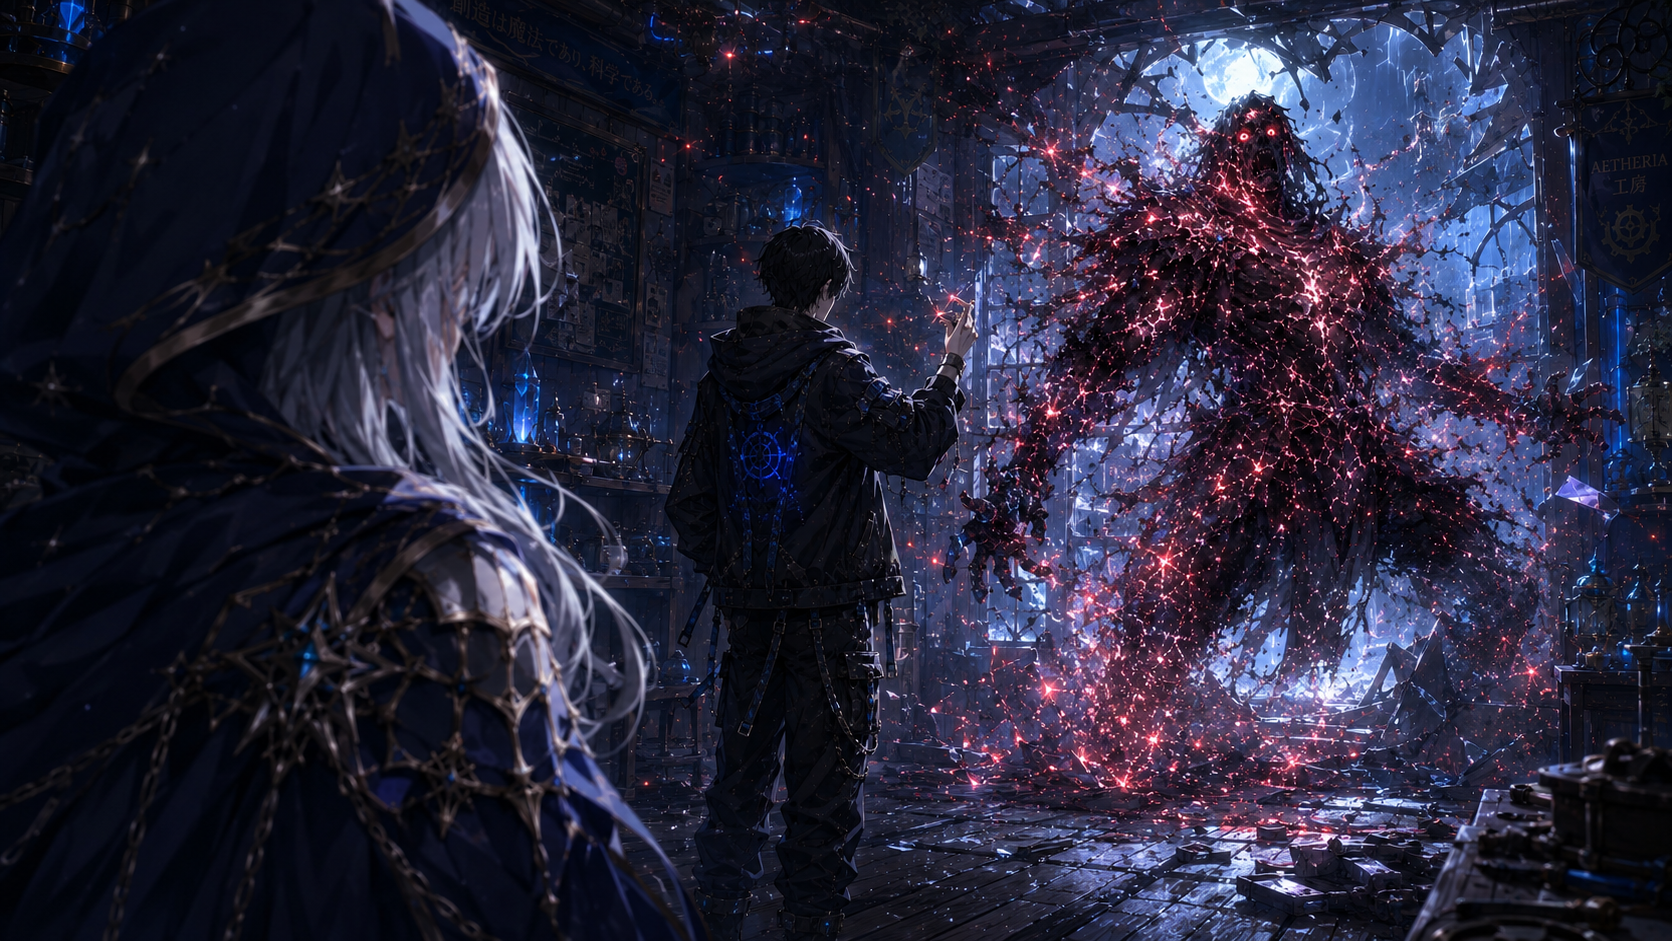
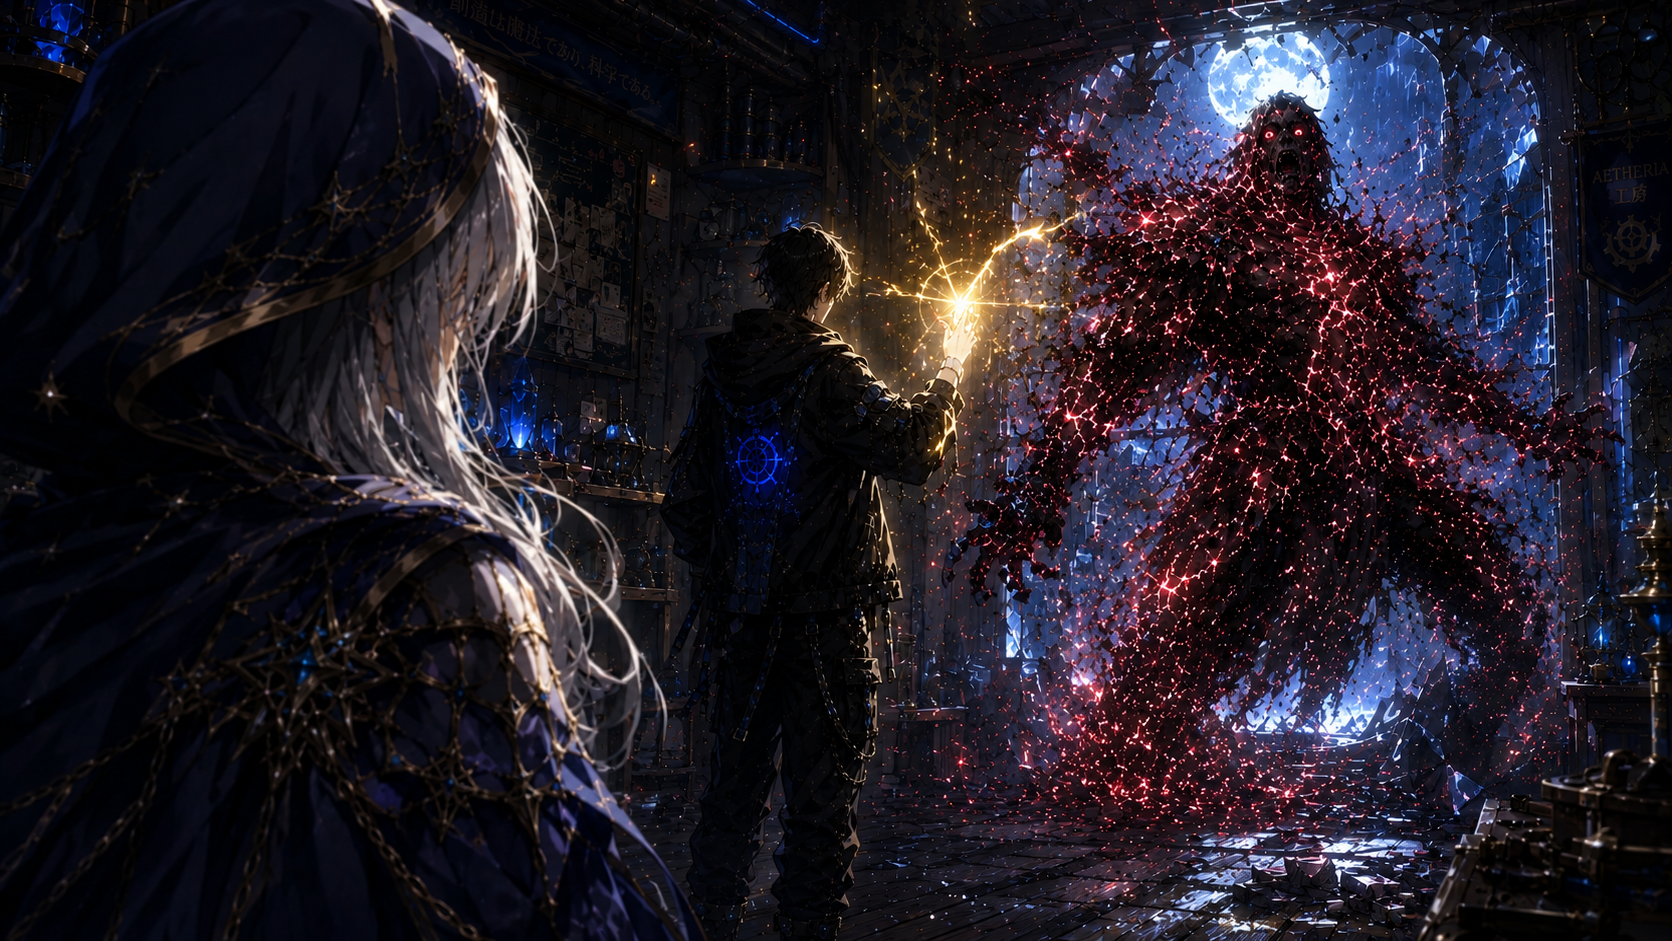
fix(assets): standardize new cg filenames, fix landing screen background path, and update scenes.ts

diff --git a/src/data/chapter-1/scenes.ts b/src/data/chapter-1/scenes.ts
@@ -167,16 +167,16 @@ export const scenes: Scene[] = [
       { id: 'CH1_S03_D001', speaker: 'system', expression: 'neutral', text: '*BLAAARRR...*', autoAdvance: true, autoAdvanceDelay: 1500, audioSrc: '/assets/audio/sfx/thunder.ogg' },
       { id: 'CH1_S03_D002', speaker: 'system', expression: 'neutral', text: '*TOK TOK TOK!* Terdengar ketukan keras dari luar, disusul suara bel bengkel yang berbunyi panik.', audioSrc: '/assets/audio/sfx/shop_bell.ogg' },
       { id: 'CH1_S03_D003', speaker: 'lysthea', expression: 'hidden', text: 'Permisi! Apakah ada mekanik di dalam?! Tolong buka pintunya!' },
-      { id: 'CH1_S03_D004', speaker: 'aeterna', expression: 'sigh', text: 'Aku membuka pintu kayu bengkelku. Seorang wanita berjubah basah kuyup berdiri menggigil di bawah hujan. Wajahnya terlihat sangat panik.', backgroundOverride: 'ch1/cg_ch1_s03_lys_arrive.jpg', characterOverrides: { aeterna: 'none', lysthea: 'none' } },
-      { id: 'CH1_S03_D005', speaker: 'lysthea', expression: 'panicked', text: 'Syukurlah... Maaf mengganggu selarut ini. Tapi bisakah kau melihat benda ini sebentar?!', backgroundOverride: 'ch1/cg_ch1_s03_lys_arrive.jpg', characterOverrides: { aeterna: 'none', lysthea: 'none' } },
+      { id: 'CH1_S03_D004', speaker: 'aeterna', expression: 'sigh', text: 'Aku membuka pintu kayu bengkelku. Seorang wanita berjubah basah kuyup berdiri menggigil di bawah hujan. Wajahnya terlihat sangat panik.', backgroundOverride: 'ch1/cg_ch1_s03_lys_arrive.png', characterOverrides: { aeterna: 'none', lysthea: 'none' } },
+      { id: 'CH1_S03_D005', speaker: 'lysthea', expression: 'panicked', text: 'Syukurlah... Maaf mengganggu selarut ini. Tapi bisakah kau melihat benda ini sebentar?!', backgroundOverride: 'ch1/cg_ch1_s03_lys_arrive.png', characterOverrides: { aeterna: 'none', lysthea: 'none' } },
       { id: 'CH1_S03_D006', speaker: 'aeterna', expression: 'neutral', text: 'Dia menyodorkan sebuah bola kristal logam ke atas meja. Intinya retak dan memancarkan kilatan energi biru yang sangat liar.', backgroundOverride: 'ch1/cg_core_slam.png', characterOverrides: { aeterna: 'none', lysthea: 'none' } },
       { id: 'CH1_S03_D007', speaker: 'lysthea', expression: 'panicked', text: 'Ini kristal core dari Defense Server distrik ketujuh. Pelindung distrik ini akan runtuh kalau sistemnya gagal me-reboot!', backgroundOverride: 'ch1/cg_core_slam.png', characterOverrides: { aeterna: 'none', lysthea: 'none' } },
       { id: 'CH1_S03_D008', speaker: 'aeterna', expression: 'neutral', text: 'Aku mengambil kristal itu. Energinya bocor karena ada beberapa baris "Rune" yang mengalami konflik logika. Layaknya sebuah memory leak.' },
       { id: 'CH1_S03_D009', speaker: 'aeterna', expression: 'neutral', text: 'Hanya butuh sinkronisasi ulang. Aku menyentuh titik pusat sirkuitnya, mengeksekusi override command di kepalaku untuk menutup celah error tersebut.', audioSrc: '/assets/audio/sfx/magic_repair.ogg', backgroundOverride: 'ch1/cg_casual_repair.png', characterOverrides: { aeterna: 'none', lysthea: 'none' } },
       { id: 'CH1_S03_D010', speaker: 'aeterna', expression: 'neutral', text: 'Dalam beberapa detik, cahaya liar itu padam. Sirkuit sihir di dalamnya kembali tersambung dan berputar mulus.', backgroundOverride: 'ch1/cg_casual_repair.png' },
-      { id: 'CH1_S03_D011', speaker: 'aeterna', expression: 'neutral', text: 'Sudah ku-patch. Sistem pelindungnya seharusnya otomatis online lagi sekarang.', backgroundOverride: 'ch1/cg_ch1_s03_lys_shock.jpg', characterOverrides: { aeterna: 'none', lysthea: 'none' } },
-      { id: 'CH1_S03_D012', speaker: 'lysthea', expression: 'shocked', text: '...Hah?', backgroundOverride: 'ch1/cg_ch1_s03_lys_shock.jpg', characterOverrides: { aeterna: 'none', lysthea: 'none' } },
-      { id: 'CH1_S03_D013', speaker: 'lysthea', expression: 'shocked', text: '(Tidak mungkin... Menulis ulang konfigurasi Origin Rune tanpa merapal mantra?! Bahkan divisi elitku butuh waktu berhari-hari untuk kasus ini!)', backgroundOverride: 'ch1/cg_ch1_s03_lys_shock.jpg', characterOverrides: { aeterna: 'none', lysthea: 'none' } },
+      { id: 'CH1_S03_D011', speaker: 'aeterna', expression: 'neutral', text: 'Sudah ku-patch. Sistem pelindungnya seharusnya otomatis online lagi sekarang.', backgroundOverride: 'ch1/cg_ch1_s03_lys_shock.png', characterOverrides: { aeterna: 'none', lysthea: 'none' } },
+      { id: 'CH1_S03_D012', speaker: 'lysthea', expression: 'shocked', text: '...Hah?', backgroundOverride: 'ch1/cg_ch1_s03_lys_shock.png', characterOverrides: { aeterna: 'none', lysthea: 'none' } },
+      { id: 'CH1_S03_D013', speaker: 'lysthea', expression: 'shocked', text: '(Tidak mungkin... Menulis ulang konfigurasi Origin Rune tanpa merapal mantra?! Bahkan divisi elitku butuh waktu berhari-hari untuk kasus ini!)', backgroundOverride: 'ch1/cg_ch1_s03_lys_shock.png', characterOverrides: { aeterna: 'none', lysthea: 'none' } },
       { id: 'CH1_S03_D014', speaker: 'aeterna', expression: 'smug', text: 'Biaya perbaikannya sepuluh Silver Coins. Bisa bayar tunai sekarang?' }
     ],
     unlockEvidenceIds: [],
@@ -197,19 +197,19 @@ export const scenes: Scene[] = [
       { characterId: 'abyssal_assassin', position: 'center', initialExpression: 'menacing' },
     ],
     dialogues: [
-      { id: 'CH1_S04_D001', speaker: 'system', expression: 'neutral', text: '*CRASH!!!* Kaca jendela khusus bengkel pecah berkeping-keping.', autoAdvance: true, autoAdvanceDelay: 1000, backgroundOverride: 'ch1/cg_ch1_s04_assassin_entry.mp4', characterOverrides: { aeterna: 'none', lysthea: 'none', abyssal_assassin: 'none' } },
-      { id: 'CH1_S04_D002', speaker: 'abyssal_assassin', expression: 'menacing', text: 'Ketemu kau... Relik itu... Hancurlah bersamanya!', backgroundOverride: 'ch1/cg_ch1_s04_assassin_entry.mp4', characterOverrides: { aeterna: 'none', lysthea: 'none', abyssal_assassin: 'none' } },
-      { id: 'CH1_S04_D003', speaker: 'lysthea', expression: 'cool', text: 'Awas! Mundur, Engineer! Biar aku yang menanganinya!', backgroundOverride: 'ch1/cg_ch1_s04_lys_protect.jpg', characterOverrides: { aeterna: 'none', lysthea: 'none', abyssal_assassin: 'none' } },
+      { id: 'CH1_S04_D001', speaker: 'system', expression: 'neutral', text: '*CRASH!!!* Kaca jendela khusus bengkel pecah berkeping-keping.', autoAdvance: true, autoAdvanceDelay: 1000, backgroundOverride: 'ch1/cg_ch1_s04_assassin_entry.png', characterOverrides: { aeterna: 'none', lysthea: 'none', abyssal_assassin: 'none' } },
+      { id: 'CH1_S04_D002', speaker: 'abyssal_assassin', expression: 'menacing', text: 'Ketemu kau... Relik itu... Hancurlah bersamanya!', backgroundOverride: 'ch1/cg_ch1_s04_assassin_entry.png', characterOverrides: { aeterna: 'none', lysthea: 'none', abyssal_assassin: 'none' } },
+      { id: 'CH1_S04_D003', speaker: 'lysthea', expression: 'cool', text: 'Awas! Mundur, Engineer! Biar aku yang menanganinya!', backgroundOverride: 'ch1/cg_ch1_s04_lys_protect.png', characterOverrides: { aeterna: 'none', lysthea: 'none', abyssal_assassin: 'none' } },
       { id: 'CH1_S04_D004', speaker: 'aeterna', expression: 'sigh', text: '(Dalam hati) Kalau kubiarkan dia bertarung, bengkel ini akan rata dengan tanah. Kaca jendela itu saja sudah merugikanku tiga puluh Gold Coins...', characterOverrides: { aeterna: 'sigh', lysthea: 'cool' } },
-      { id: 'CH1_S04_D005', speaker: 'aeterna', expression: 'neutral', text: '(Dalam hati) Lebih baik aku cabut saja root access iblis ini secara manual.', backgroundOverride: 'ch1/cg_ch1_s04_aeterna_authority.jpg', characterOverrides: { aeterna: 'none', lysthea: 'none', abyssal_assassin: 'none' } },
-      { id: 'CH1_S04_D006', speaker: 'narrator', expression: 'neutral', text: 'Tanpa beranjak, Aeterna mengangkat tangannya dengan santai dan menjentikkan jari. Sebuah denyut tak kasat mata menyapu seluruh ruangan.', backgroundOverride: 'ch1/cg_ch1_s04_aeterna_authority.jpg', characterOverrides: { abyssal_assassin: 'none', aeterna: 'none', lysthea: 'none' } },
+      { id: 'CH1_S04_D005', speaker: 'aeterna', expression: 'neutral', text: '(Dalam hati) Lebih baik aku cabut saja root access iblis ini secara manual.', backgroundOverride: 'ch1/cg_ch1_s04_aeterna_authority.png', characterOverrides: { aeterna: 'none', lysthea: 'none', abyssal_assassin: 'none' } },
+      { id: 'CH1_S04_D006', speaker: 'narrator', expression: 'neutral', text: 'Tanpa beranjak, Aeterna mengangkat tangannya dengan santai dan menjentikkan jari. Sebuah denyut tak kasat mata menyapu seluruh ruangan.', backgroundOverride: 'ch1/cg_ch1_s04_aeterna_authority.png', characterOverrides: { abyssal_assassin: 'none', aeterna: 'none', lysthea: 'none' } },
       { id: 'CH1_S04_D007', speaker: 'abyssal_assassin', expression: 'terrified', text: 'T-Tekanan ini... Root Access?! Tidak mungkin... Kau—', backgroundOverride: 'ch1/cg_dust_snap.png', characterOverrides: { abyssal_assassin: 'none', aeterna: 'none', lysthea: 'none' } },
       { id: 'CH1_S04_D008', speaker: 'narrator', expression: 'neutral', text: 'Sebelum iblis itu menyelesaikan kalimatnya, tubuhnya terurai menjadi untaian kode cahaya, lalu hancur sepenuhnya menjadi debu merah.', backgroundOverride: 'ch1/cg_dust_snap.png', characterOverrides: { abyssal_assassin: 'none', aeterna: 'none', lysthea: 'none' } },
-      { id: 'CH1_S04_D009', speaker: 'lysthea', expression: 'crying', text: 'Hak Akses Mutlak ini... Otoritas dari inti penciptaan...', backgroundOverride: 'ch1/cg_ch1_s04_lys_crying.jpg', characterOverrides: { abyssal_assassin: 'leave', aeterna: 'none', lysthea: 'none' } },
-      { id: 'CH1_S04_D010', speaker: 'lysthea', expression: 'crying', text: 'Anda... Anda adalah The Weaver of Fate? Sang Arsitek Utama yang merancang dunia ini sepuluh ribu tahun yang lalu?', backgroundOverride: 'ch1/cg_ch1_s04_lys_crying.jpg', characterOverrides: { abyssal_assassin: 'leave', aeterna: 'none', lysthea: 'none' } },
-      { id: 'CH1_S04_D011', speaker: 'aeterna', expression: 'neutral', text: 'Aku menghela napas, menatap wanita di depanku. Pancaran energinya yang murni dan terstruktur... tidak salah lagi.', backgroundOverride: 'ch1/cg_ch1_s04_lys_crying.jpg', characterOverrides: { abyssal_assassin: 'leave', aeterna: 'none', lysthea: 'none' } },
-      { id: 'CH1_S04_D012', speaker: 'aeterna', expression: 'smile', text: 'Bangunlah. Lantainya kotor dan penuh pecahan kaca. Lama tidak berjumpa... Goddess of Order.', backgroundOverride: 'ch1/cg_ch1_s04_aeterna_smile.jpg', characterOverrides: { abyssal_assassin: 'leave', aeterna: 'none', lysthea: 'none' } },
-      { id: 'CH1_S04_D013', speaker: 'lysthea', expression: 'shocked', text: 'Anda... mengenali saya?', backgroundOverride: 'ch1/cg_ch1_s04_aeterna_smile.jpg', characterOverrides: { aeterna: 'none', lysthea: 'none' } },
+      { id: 'CH1_S04_D009', speaker: 'lysthea', expression: 'crying', text: 'Hak Akses Mutlak ini... Otoritas dari inti penciptaan...', backgroundOverride: 'ch1/cg_ch1_s04_lys_crying.png', characterOverrides: { abyssal_assassin: 'leave', aeterna: 'none', lysthea: 'none' } },
+      { id: 'CH1_S04_D010', speaker: 'lysthea', expression: 'crying', text: 'Anda... Anda adalah The Weaver of Fate? Sang Arsitek Utama yang merancang dunia ini sepuluh ribu tahun yang lalu?', backgroundOverride: 'ch1/cg_ch1_s04_lys_crying.png', characterOverrides: { abyssal_assassin: 'leave', aeterna: 'none', lysthea: 'none' } },
+      { id: 'CH1_S04_D011', speaker: 'aeterna', expression: 'neutral', text: 'Aku menghela napas, menatap wanita di depanku. Pancaran energinya yang murni dan terstruktur... tidak salah lagi.', backgroundOverride: 'ch1/cg_ch1_s04_lys_crying.png', characterOverrides: { abyssal_assassin: 'leave', aeterna: 'none', lysthea: 'none' } },
+      { id: 'CH1_S04_D012', speaker: 'aeterna', expression: 'smile', text: 'Bangunlah. Lantainya kotor dan penuh pecahan kaca. Lama tidak berjumpa... Goddess of Order.', backgroundOverride: 'ch1/cg_ch1_s04_aeterna_smile.png', characterOverrides: { abyssal_assassin: 'leave', aeterna: 'none', lysthea: 'none' } },
+      { id: 'CH1_S04_D013', speaker: 'lysthea', expression: 'shocked', text: 'Anda... mengenali saya?', backgroundOverride: 'ch1/cg_ch1_s04_aeterna_smile.png', characterOverrides: { aeterna: 'none', lysthea: 'none' } },
       { id: 'CH1_S04_D014', speaker: 'aeterna', expression: 'lazy', text: 'Tentu saja aku ingat. Kau yang menanggung beban sebagai Administrator sistem ini setelah aku pergi berlibur panjang, kan?' },
       { id: 'CH1_S04_D015', speaker: 'aeterna', expression: 'neutral', text: 'Terima kasih sudah menjaga server-nya tetap online selama sepuluh ribu tahun, Lysthea. Kerja yang bagus.' },
       { id: 'CH1_S04_D016', speaker: 'lysthea', expression: 'crying', text: 'Mendengar pujian sederhana itu, pertahanan emosi sang Grand Saintess runtuh sepenuhnya.', characterOverrides: { aeterna: 'neutral', lysthea: 'crying' } }

diff --git a/src/components/screens/LandingScreen.tsx b/src/components/screens/LandingScreen.tsx
@@ -108,7 +108,7 @@ export function LandingScreen({ hasSave, onStart, onContinue }: LandingScreenPro
   return (
     <div className="absolute inset-0 select-none overflow-hidden bg-[#06050A] font-body text-[#F8F4FF] antialiased">
       <motion.img
-        src="/assets/backgrounds/bg_landing_aetheria_workshop.png"
+        src="/assets/backgrounds/ch1/bg_landing_aetheria_workshop.png"
         alt=""
         className="absolute inset-0 z-0 h-full w-full object-cover object-center"
         draggable={false}